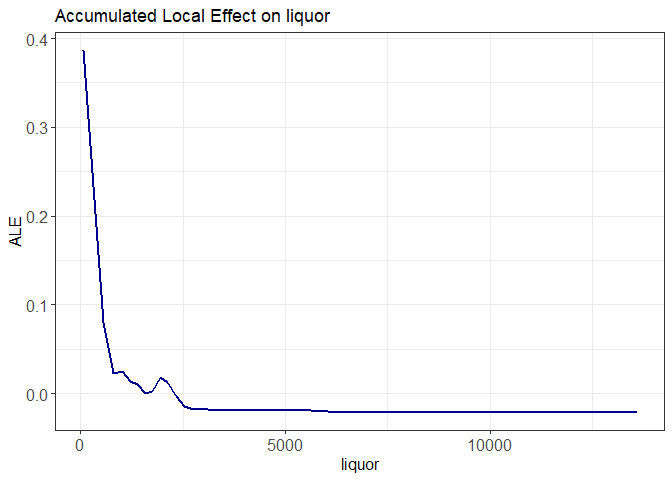
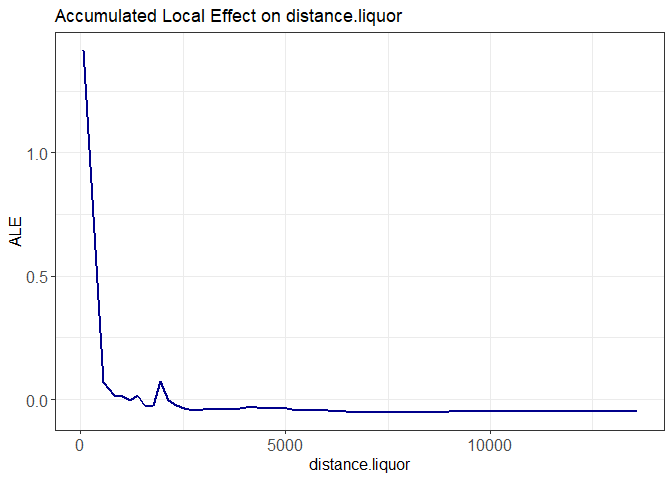
Updated readme file

diff --git a/README.md b/README.md
@@ -28,11 +28,13 @@ You can install the current experimental version at
 devtools::install_github("gmcirco/quickgrid")
 ```
 
+*NOTE*: There are a **lot** of changes coming in the near future!
+
 ## The Major Functions
 
 `quickGrid` has two major functions. One sets up the raw data for model
-fitting (`prep_data`) and the other simplifies the fitting of a lightgbm
-model (`fit_lgbm`).
+fitting (`prep_data`) and the other simplifies the fitting of a gradient
+boosted tree (GBM) model (`fit_gbm`).
 
 ### prep\_data
 
@@ -44,22 +46,21 @@ statistical modeling program. This function converts your study area
 into *N* gridded cells, then calculates distances or densities of
 various predictor variables.
 
-### fit\_lgbm
+### fit\_gbm
 
-`fit_lgbm` takes the data created by `prep_data` and fits a predictive
-model using a tree-based boosted model via `lightgbm`. While some
+`fit_gbm` takes the data created by `prep_data` and fits a predictive
+model using a tree-based boosted model via `xgboost`. While some
 reasonable defaults are set for the function, it is highly recommended
 that users make use of the built-in cross-validation function to help
-choose parameters that will minimize overfitting. The `fit_lgbm`
-function will automatically fit either binary (0, 1), Poisson
-(0, 1, 2, ..*n*), or regression. You can also specify custom models
-using the parameters listed
-[here](https://lightgbm.readthedocs.io/en/latest/Parameters.html).
+choose parameters that will minimize overfitting. The `fit_gbm` function
+will automatically fit either binary (0, 1), Poisson (0, 1, 2, ..*n*),
+or regression. You can also specify custom models using the parameters
+listed [here](https://xgboost.readthedocs.io/en/latest/parameter.html).
 
 ## Data Example: Hartford, CT Robberies
 
 This is a minimum working example using the data provided in the
-`quickGrid` package[1]. `quickGrid` is packaged with an example dataset
+`quickGrid` package. `quickGrid` is packaged with an example dataset
 containing robberies in Hartford CT for 2018 and 2019. A number of
 spatial predictors are packed in as well, including the locations of
 bars, liquor stores, gas stations, pharmacies, and dollar stores
@@ -69,8 +70,6 @@ objects that can be easily plugged into our model prep function.
 ### Setting up your data
 
 ``` r
-library(lightgbm)
-#> Loading required package: R6
 library(quickGrid)
 
 data("hartford_data")
@@ -99,82 +98,87 @@ particular, has a few important fields:
 
 ``` r
 # Top 6 rows of model dataframe
-head(model_data$lgbm_dataframe)
-#>         x        y grid_id n      bar   liquor      gas pharmacy   retail
-#> 1 1009620 824500.8       1 0 7386.051 11624.34 9124.581 8562.921 6149.811
-#> 2 1009820 824500.8       2 0 7260.199 11440.13 8952.365 8384.448 6132.109
-#> 3 1010020 824500.8       3 0 7137.732 11256.45 8781.327 8206.968 6120.895
-#> 4 1010220 824500.8       4 0 7018.829 11073.34 8611.536 8030.547 6116.203
-#> 5 1010420 824500.8       5 0 6903.672 10890.82 8443.069 7855.256 6118.049
-#> 6 1010620 824500.8       6 0 6792.453 10708.93 8276.006 7681.173 6126.427
+head(model_data$gbm_dataframe)
+#>         x        y n distance.bar distance.liquor distance.gas
+#> 1 1012220 854890.8 0     11952.96        2758.104     10486.70
+#> 2 1012420 854890.8 0     11761.49        2563.484     10451.25
+#> 3 1012620 854890.8 0     11570.31        2369.759     10419.51
+#> 4 1012820 854890.8 0     11379.43        2177.169     10391.53
+#> 5 1013020 854890.8 0     11188.87        1986.044     10367.33
+#> 6 1013220 854890.8 0     10998.65        1796.853     10346.94
+#>   distance.pharmacy distance.retail grid_id
+#> 1          3965.104        2953.137      18
+#> 2          3841.218        2776.535      19
+#> 3          3723.957        2603.320      20
+#> 4          3613.967        2434.215      21
+#> 5          3511.932        2270.139      22
+#> 6          3418.562        2112.263      23
 ```
 
 Here we have the distances for each of the 5 predictor features for each
-of the 12,901 cell 200x200 foot cells. Now that it has been processed,
-this data can be either directly fed into the `lgbm_fit` function, or
-used in any other model fitting function. Here, we will use it directly
-in the convenient `lgbm_fit` function to fit a predictive model for
-robberies.
+of the 12,896 200x200 foot cells. Now that it has been processed, this
+data can be either directly fed into the `gbm_fit` function, or used in
+any other model fitting function. Here, we will use it directly in the
+convenient `gbm_fit` function to fit a predictive model for robberies.
 
 ### Fitting your model
 
 Here, we’re going to fit a simple model using some parameters that were
 already selected via cross-validation. We will put in the model data,
 and specify a few parameters for our boosted tree-based model. We’ll set
-the maximum number of leaves to 20, the learning rate to 0.01, and the
-number of iterations to 750. In addition, to protect against overfitting
-we’ll set the bagging fraction to .5, and the bagging frequency to 5.
-For more information on parameter tuning, check the [lightgbm
-page](https://lightgbm.readthedocs.io/en/latest/Parameters-Tuning.html)
+the learning rate, `eta` to 0.3, `gamma` to 1, `max_depth` to 6, and
+`min_child_weight` to 1. In addition, to help protect against
+overfitting, we’ll randomly subsample 50% of the data each boosting
+iteration. For more information on parameter tuning, check the [XGBoost
+page](https://xgboost.readthedocs.io/en/latest/tutorials/param_tuning.html)
 
-Finally, we’ll set `plot = TRUE` and `plot_importance = TRUE` to give us
-the predicted grid values on a map and the feature importance for each
-predictor variable.
+Finally, we’ll set `plot_importance = TRUE` to give us the feature
+importance for each predictor variable.
 
 ``` r
-gbm_fit <- lgbm_fit(prep_data = model_data,
-                    nleaves =  20,
-                    mindata = 100,
-                    maxdepth = 7,
-                    lrate = 0.01,
-                    nrounds = 750,
-                    bag_frac = .5,
-                    bag_freq = 5,
-                    plot = TRUE,
-                    plot_importance = TRUE)
+gbm_fit <- gbm_fit(
+  prep_data = model_data,
+  eta = 0.3,
+  gamma = 1,
+  max_depth = 6,
+  min_child_weight = 1,
+  subsample = .5,
+  nrounds = 1000,
+  plot_importance = TRUE
+)
 #> [1] "Model type: Poisson"
-#> [1] "Fitting lgbm model..."
+#> [1] "Fitting gbm model..."
 ```
 
-<img src="man/figures/README-unnamed-chunk-3-1.png" width="500px" /><img src="man/figures/README-unnamed-chunk-3-2.png" width="500px" />
+<img src="man/figures/README-unnamed-chunk-3-1.png" width="500px" />
 
 We can directly access the model predictions as well, by examining the
-model dataframe in the `lgbm_fit` output file. In this case `gbm.pred`
-is the predicted number of robberies at any given grid cell. These
+model dataframe in the `gbm_fit` output file. In this case `gbm.pred` is
+the predicted number of robberies at any given grid cell. These
 predictions can be used in a variety of methods - including identifying
 hot-spots for crime prevention.
 
 ``` r
 head(gbm_fit$model_dataframe)
-#> Simple feature collection with 6 features and 10 fields
+#> Simple feature collection with 6 features and 11 fields
 #> Geometry type: POLYGON
 #> Dimension:     XY
-#> Bounding box:  xmin: 1009520 ymin: 824400.8 xmax: 1010720 ymax: 824600.8
+#> Bounding box:  xmin: 1012120 ymin: 854790.8 xmax: 1013320 ymax: 854990.8
 #> Projected CRS: NAD83(NSRS2007) / Connecticut (ftUS)
-#>   grid_id       x        y n      bar   liquor      gas pharmacy   retail
-#> 1       1 1009620 824500.8 0 7386.051 11624.34 9124.581 8562.921 6149.811
-#> 2       2 1009820 824500.8 0 7260.199 11440.13 8952.365 8384.448 6132.109
-#> 3       3 1010020 824500.8 0 7137.732 11256.45 8781.327 8206.968 6120.895
-#> 4       4 1010220 824500.8 0 7018.829 11073.34 8611.536 8030.547 6116.203
-#> 5       5 1010420 824500.8 0 6903.672 10890.82 8443.069 7855.256 6118.049
-#> 6       6 1010620 824500.8 0 6792.453 10708.93 8276.006 7681.173 6126.427
-#>      gbm.pred                       geometry
-#> 1 0.003564445 POLYGON ((1009520 824400.8,...
-#> 2 0.003564445 POLYGON ((1009720 824400.8,...
-#> 3 0.003162640 POLYGON ((1009920 824400.8,...
-#> 4 0.002891697 POLYGON ((1010120 824400.8,...
-#> 5 0.003666776 POLYGON ((1010320 824400.8,...
-#> 6 0.003666776 POLYGON ((1010520 824400.8,...
+#>    grid_id layer       x        y n distance.bar distance.liquor distance.gas
+#> 18      18  0.00 1012220 854890.8 0     11952.96        2758.104     10486.70
+#> 19      19  0.00 1012420 854890.8 0     11761.49        2563.484     10451.25
+#> 20      20  0.02 1012620 854890.8 0     11570.31        2369.759     10419.51
+#> 21      21  0.10 1012820 854890.8 0     11379.43        2177.169     10391.53
+#> 22      22  0.10 1013020 854890.8 0     11188.87        1986.044     10367.33
+#> 23      23  0.10 1013220 854890.8 0     10998.65        1796.853     10346.94
+#>    distance.pharmacy distance.retail    gbm.pred                       geometry
+#> 18          3965.104        2953.137 0.001154631 POLYGON ((1012120 854990.8,...
+#> 19          3841.218        2776.535 0.001529267 POLYGON ((1012320 854990.8,...
+#> 20          3723.957        2603.320 0.002322025 POLYGON ((1012520 854990.8,...
+#> 21          3613.967        2434.215 0.001908765 POLYGON ((1012720 854990.8,...
+#> 22          3511.932        2270.139 0.001752649 POLYGON ((1012920 854990.8,...
+#> 23          3418.562        2112.263 0.001365357 POLYGON ((1013120 854990.8,...
 ```
 
 We can also plot the accumulated local effect of any predictor variable.
@@ -184,7 +188,7 @@ function. Here it looks like the effect is highly localized, with the
 effect decaying rapidly as distance from a liquor store increases.
 
 ``` r
-plot_ale(gbm_fit, 'liquor')
+plot_ale(gbm_fit, 'distance.liquor')
 ```
 
 <img src="man/figures/README-unnamed-chunk-5-1.png" width="500px" />
@@ -192,34 +196,27 @@ plot_ale(gbm_fit, 'liquor')
 ### Fitting your model with cross-validation
 
 Another (highly-suggested) option is to utilize the cross-validation
-function in `lgbm_fit` to determine the optimal value for the model
+function in `gbm_fit` to determine the optimal value for the model
 parameters. Currently, the cross-validation function chooses values for
 the number of leaves, the learning rate, and the number of iterations.
 These can be specified by adding `cv=TRUE` to the model, then providing
 values for the cross-validation tuning grid for each parameter. The
 cross-validation function then iteratively fits models for each of the
-unique parameter combinations until an optimal one is found. If we
-provide 3 values for 3 of the parameters we must then fit
-3<sup>3</sup> = 27 models. While more options are typically better, this
-can become quite time intensive with many combinations. You may wish to
-tune the parameters separately, check the results against your test
-dataset, then re-tune the model against the other parameters.
+unique parameter combinations until an optimal one is found. For
+example: if we provide 3 values for 3 of the parameters we then must
+then fit 3<sup>3</sup> = 27 models. While more options are typically
+better, this can become quite time intensive with many combinations. You
+may wish to tune the parameters separately, check the results against
+your test dataset, then re-tune the model against the other parameters.
 
 ``` r
-gbm_fit_cv <- lgbm_fit(prep_data = model_data,
-                    cv = TRUE,
-                    cv.folds = 5,
-                    cv.nleaves = c(5,10,20),
-                    cv.mindata = c(50,100),
-                    cv.maxdepth = c(7,10,20),
-                    cv.lrate = 0.01,
-                    cv.nrounds = 750,
-                    bag_frac = .5,
-                    bag_freq = 5)
+gbm_fit_cv <- gbm_fit(prep_data = model_data,
+                     cv = TRUE,
+                     cv.folds = 5,
+                     cv.eta = c(0.3,0.1),
+                     cv.gamma = c(1),
+                     cv.maxdepth = c(6,12,20),
+                     cv.min_child_weight = c(1),
+                     cv.subsample = c(.75,.5),
+                     cv.nrounds = c(500,1000))
 ```
-
-[1] **NOTE**: Currently a bug in the R version of `lightgbm` can cause
-crashes if it is loaded *after* any tidyverse packages. The only
-solution is to ensure you load `lightgbm` prior to doing anything else.
-See [here](https://github.com/microsoft/LightGBM/issues/4007) for more
-info. This will be fixed in future versions.
